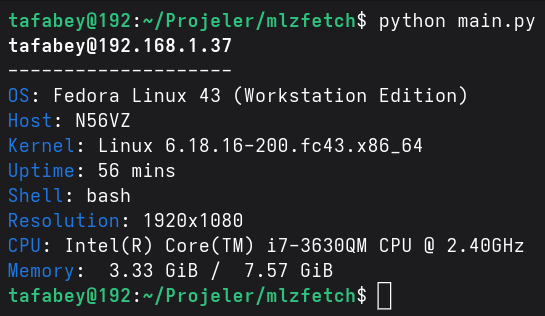
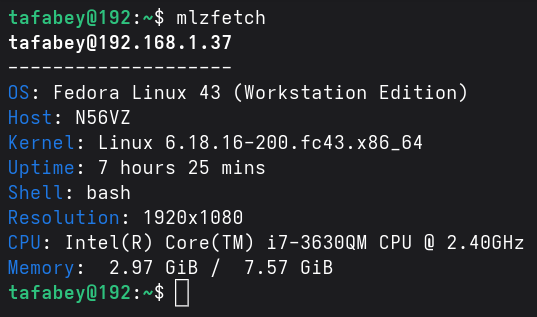
Now with setuptools support

diff --git a/src/main.py b/src/main.py
@@ -1,10 +1,10 @@
 import sys
 if sys.platform == "linux":
-    import platforms.linux as provider
+    from .platforms import linux as provider
 else:
     print("This program only runs on Linux")
     sys.exit(1)
-import colors
+from . import colors
 
 def main():
     sysinfo = {

diff --git a/README.md b/README.md
@@ -6,7 +6,18 @@ mlzfetch is a minimalist fetch tool for Linux. Written with Python programming l
 
 ## How to install
 - First, clone the repository
-- Then enter the directory and run `python3 main.py`
+```bash
+git clone https://github.com/tafabey/mlzfetch
+```
+- Then, enter the directory
+```bash
+cd mlzfetch
+```
+- Finally, type the install command
+```
+pip install -e .
+```
+- Now you can use the program by `mlzfetch` command
 
 ## Licensing
 mlzfetch is licensed under the [BSD-3-Clause License](LICENSE)
